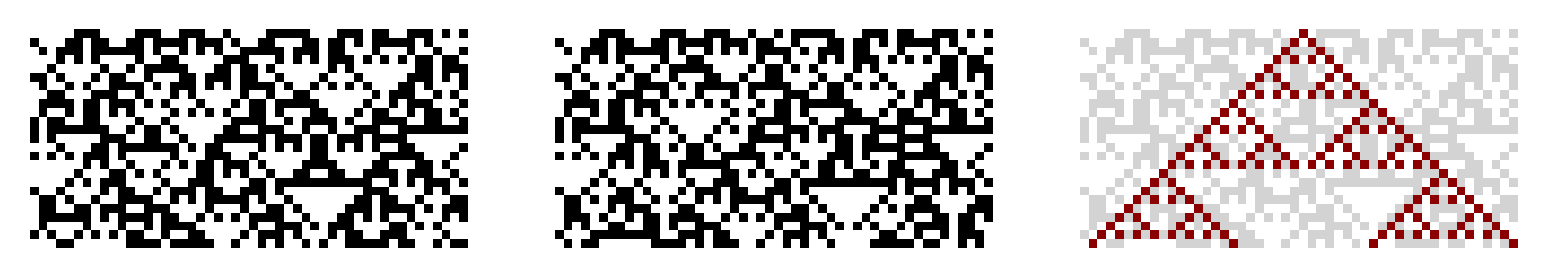
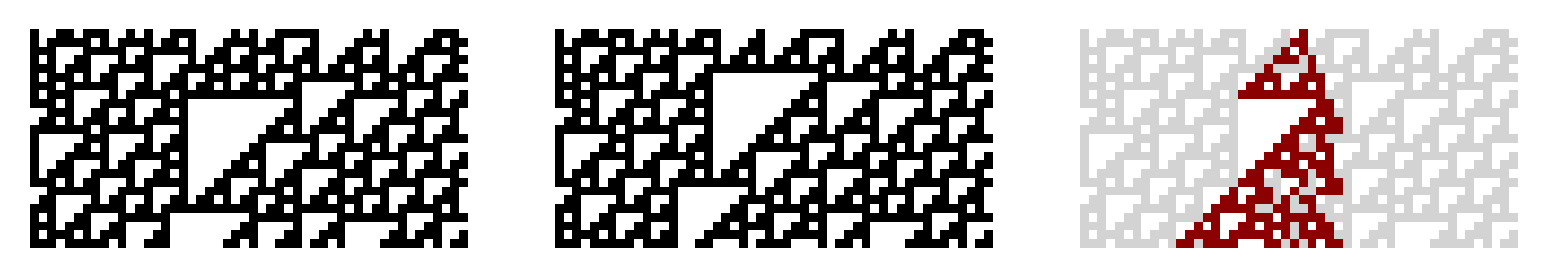
diff pattern

diff --git a/ReCA parameter space/standalone/diff_pattern.py b/ReCA parameter space/standalone/diff_pattern.py
@@ -8,7 +8,7 @@ import numpy as np
 
 width = 50
 height_fig = 25
-fargs_list = [(a,) for a in [90]]
+fargs_list = [(a,) for a in [110]]
 
 init = np.random.randint(2, size=(width, 1)).astype(np.float64)
 init_m = np.array(init, copy=True)
@@ -74,7 +74,6 @@ for i, j in np.ndindex(im_ca.shape):
 
 
 
-# plt.rcParams['image.cmap'] = 'flag'
 cmap = colors.ListedColormap(["white", "lightgray", "darkred"])
 fig, axes = plt.subplots(1, 3)
 
@@ -89,11 +88,10 @@ axes[2].axis('off')
 
 # plt.title(f'Rule {fargs_list[0][0]}, {height_fig} step')
 
-# plt.show()
+plt.show()
 
 
-fig.savefig(f'diff.png', bbox_inches="tight", dpi=300)
+# fig.savefig(f'diff.png', bbox_inches="tight", dpi=300)
 
 
 
-plt.connect('close_event', exp.close())
